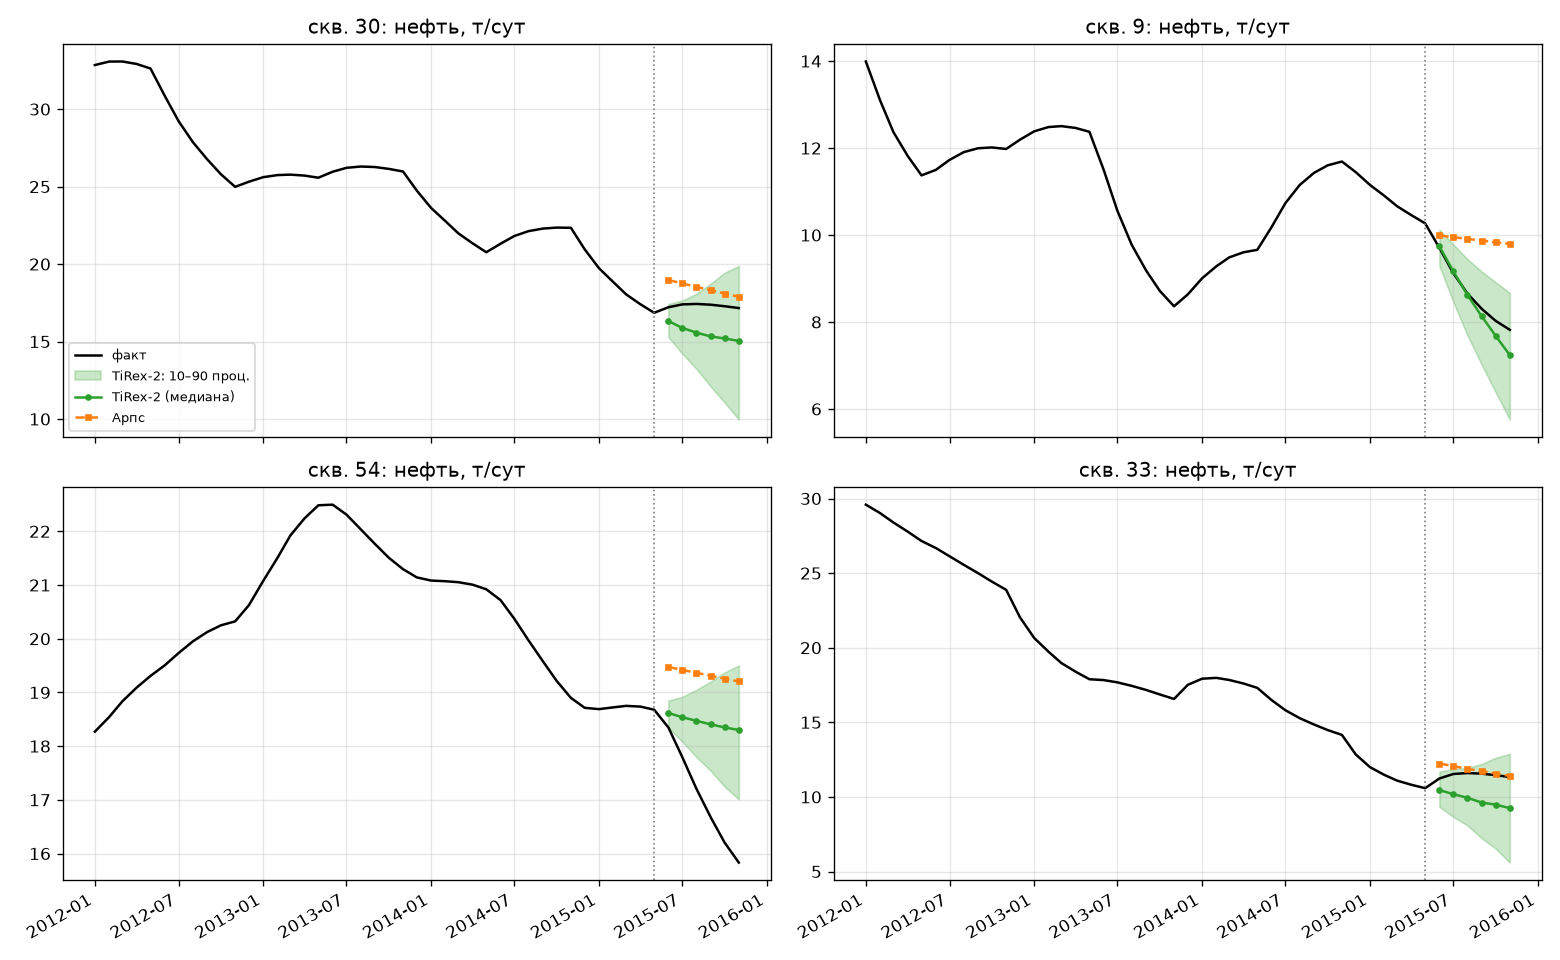
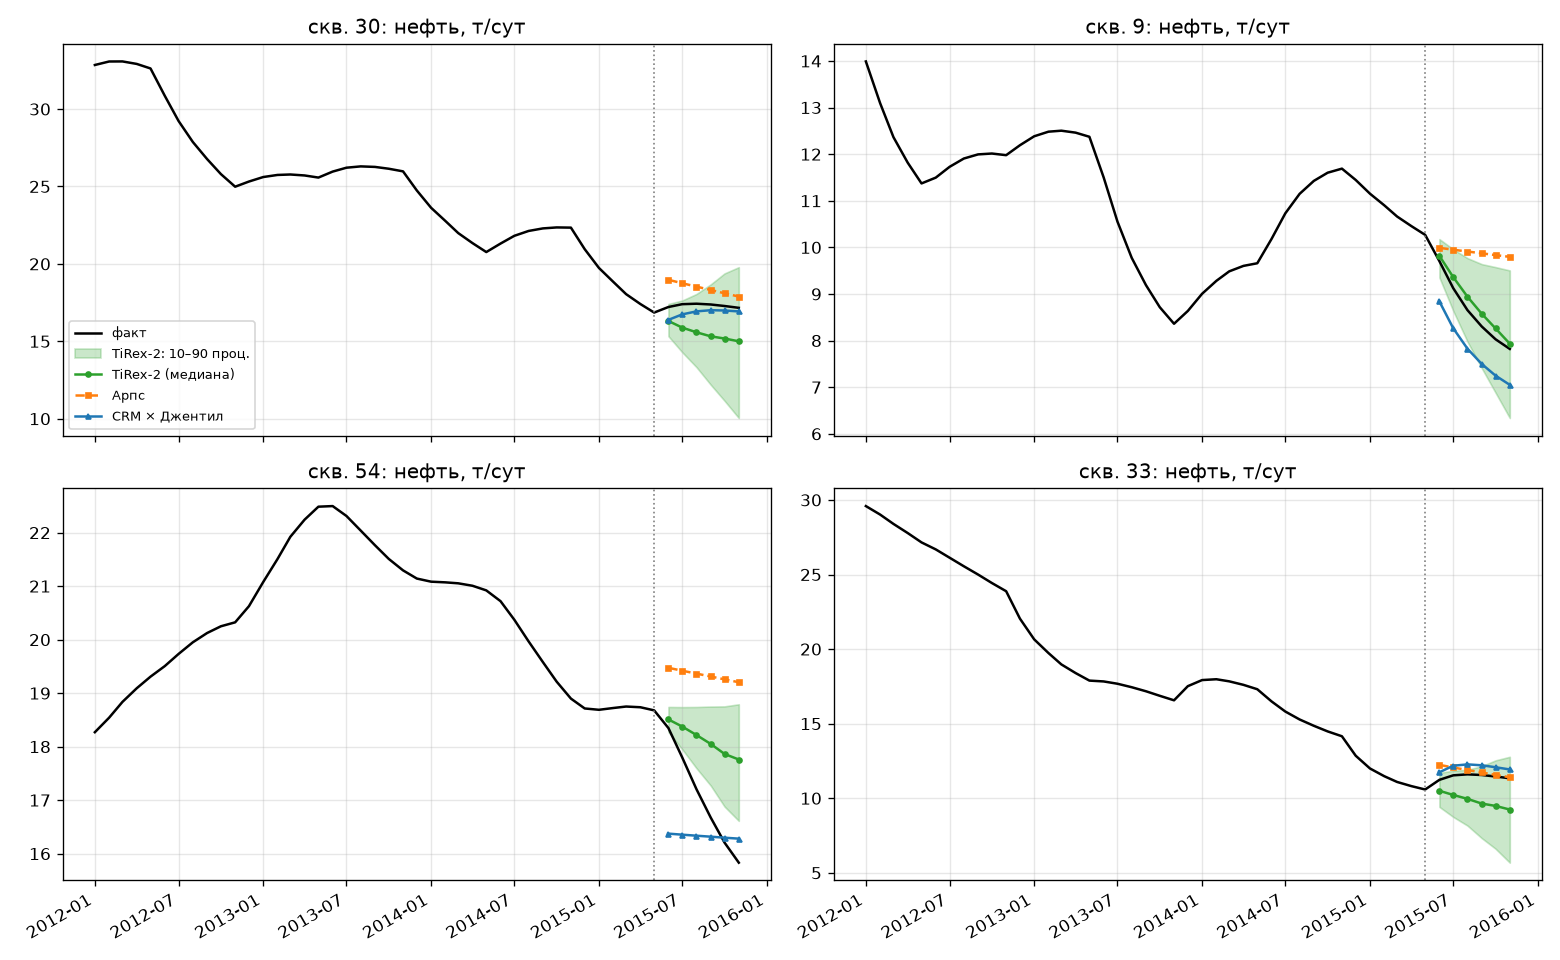
docs: этап 2 завершён — результаты в отчёте (§3.5, §4, §5, §6), журнал и статусы в roadmap, графики и сводка с a100
Жидкость: CRM 4.4% WAPE (было 7.7%); нефть: CRM×Джентил 6.4% (было 7.8%);
блоки подтверждены полевым CRM (66.7% связности внутри при 21.4% пар);
накрытие интервалов жидкости 0.59→0.73; прогноз вперёд переведён на стек.

diff --git a/docs/отчёт_прогноз_дебита_6мес.md b/docs/отчёт_прогноз_дебита_6мес.md
@@ -1,7 +1,10 @@
 # Прогноз дебита нефти и жидкости на 6 месяцев вперёд
 
-Дата: 2026-07-04. Исполнитель: агент TimesOil.
-Модели по заданию: TiRex-2 (NX-AI) и SPDM (Chen, Yiu; Гонконгский университет).
+Дата: 2026-07-04; обновлено 2026-07-07 (этап 2 — физическая обвязка).
+Исполнитель: агент TimesOil.
+Модели по заданию: TiRex-2 (NX-AI) и SPDM (Chen, Yiu; Гонконгский университет);
+этап 2 — ёмкостно-резистивная модель, фракционная модель обводнённости,
+конформная калибровка интервалов.
 
 ---
 
@@ -158,6 +161,38 @@ $$\Delta_{\Sigma} = \frac{\sum_{w,t} \hat{q}_{w,t} - \sum_{w,t} q_{w,t}}{\sum_{w
 «m» с новыми версиями библиотеки работы с таблицами, битый путь загрузки
 контрольной точки при прогнозе.
 
+### 3.5. Этап 2: физическая обвязка (2026-07-07)
+
+По итогам обзора литературы (12 статей + открытые публикации) реализованы
+четыре улучшения.
+
+**Ёмкостно-резистивная модель (CRM, библиотека pywaterflood).** Баланс
+добывающей скважины $j$:
+$$\tau_j \frac{dq_j}{dt} + q_j(t) = \sum_{i} f_{ij}\, I_i(t) - \tau_j J_j \frac{dP_{\text{заб},j}}{dt},$$
+где $f_{ij}$ — связность «нагнетательная $i$ → добывающая $j$», $\tau_j$ —
+постоянная времени. Подгонка — по блокам разломов (связи через экраны —
+структурные нули), обучение на истории до среза, прогноз при известном
+плане закачки. Дополнительно прогноз CRM подаётся в TiRex-2 как известная
+наперёд сопутствующая величина (конфигурация blocks_cov_crm).
+
+**Адресная закачка.** Вместо блочных сумм каждая добывающая получает
+$\tilde I_j(t)=\sum_i w_{ij} I_i(t)$: веса гидропроводности
+$w_{ij}\propto \bar k_{ij}/d_{ij}^{2}$ из статики (blocks_wcov) либо веса
+связности CRM (blocks_fcov).
+
+**Фракционная модель обводнённости (закон Джентила).** Водонефтяное
+отношение зрелой скважины растёт степенным законом от накопленной адресной
+закачки $W$:
+$$\mathrm{ВНО}(W)=\alpha W^{\beta}, \qquad f_o=\frac{1}{1+\mathrm{ВНО}}, \qquad
+q_{\text{нефть}} = q_{\text{жидкость}} \cdot f_o;$$
+параметры — регрессией в логарифмах по истории каждой скважины.
+
+**Конформная калибровка интервалов.** 14 срезов (2013-03…2015-05, шаг
+2 месяца); множитель горизонта $h$ — эмпирический квантиль уровня 0.8
+относительного выхода факта за половину интервала; для каждого
+контрольного среза множители подбирались по срезам с непересекающимися
+окнами (без утечки).
+
 ## 4. Результаты
 
 Сводно по трём срезам × 6 мес × 33 скважины (WAPE, меньше — лучше):
@@ -194,6 +229,54 @@ $$\Delta_{\Sigma} = \frac{\sum_{w,t} \hat{q}_{w,t} - \sum_{w,t} q_{w,t}}{\sum_{w
 
 Диаграмма — `figures/summary_wape.png`, примеры скважин — `figures/examples_oil.png`.
 
+### Результаты этапа 2 (2026-07-07)
+
+Все прогоны — на сервере a100; те же три среза × 6 месяцев × 33 скважины.
+
+**Жидкость, WAPE:**
+
+| Модель | WAPE | $\Delta_\Sigma$, % |
+|---|---|---|
+| **CRM по блокам** | **0.0438** | −1.05 |
+| TiRex-2 blocks_cov_crm (ряд CRM как сопутствующий) | 0.0480 | +0.09 |
+| TiRex-2 blocks_wcov_crm | 0.0488 | +0.21 |
+| TiRex-2 blocks_wcov (адресная закачка, гидропроводность) | 0.0631 | −0.21 |
+| TiRex-2 blocks_fcov (адресная закачка, связность CRM) | 0.0696 | −0.00 |
+| TiRex-2 blocks_cov (лучшая этапа 1) | 0.0769 | −0.06 |
+| Арпс (36 мес) | 0.1033 | −2.38 |
+
+**Нефть, WAPE:**
+
+| Модель | WAPE | $\Delta_\Sigma$, % |
+|---|---|---|
+| **CRM × Джентил** (жидкость CRM, нефть по доле) | **0.0640** | −0.20 |
+| TiRex-2 × Джентил (жидкость TiRex-2 blocks_cov_crm) | 0.0675 | +1.87 |
+| TiRex-2 blocks_cov_crm (прямой прогноз нефти) | 0.0783 | +1.00 |
+| TiRex-2 blocks_wcov | 0.0789 | +0.67 |
+| TiRex-2 blocks_cov (лучшая этапа 1) | 0.0831 | +1.05 |
+| Арпс (36 мес) | 0.0938 | +1.84 |
+
+**Проверка блоков данными.** Ёмкостно-резистивная модель всего поля без
+блоковых ограничений сосредоточила 66.7 % суммарной связности внутри
+блоков при доле внутриблочных пар 21.4 % — концентрация в 3.1 раза,
+независимое подтверждение оцифрованной разломной сети.
+
+**Калибровка интервалов.** Жидкость: накрытие 80-процентного интервала
+выросло с 0.59 до 0.73 (множители растут с горизонтом от 0.85 до 1.68 —
+собственные интервалы модели всё уже к дальним месяцам). Нефть: в среднем
+без изменений (0.74 → 0.74) — интервалы нефти уже были близки к
+калиброванным, а межсрезовая изменчивость при трёх контрольных срезах
+доминирует. Множители по всем срезам сохранены и применяются в прогнозе
+вперёд (`results/interval_scale.csv`).
+
+**Выводы этапа 2.** Ёмкостно-резистивная модель почти вдвое улучшила
+жидкость (7.7 → 4.4 %); физическая декомпозиция «жидкость × доля нефти»
+улучшила нефть на пятую часть (7.8 → 6.4 %); лучшая связка полностью
+физическая (CRM + Джентил), роль TiRex-2 — квантильные интервалы и
+устойчивость к скважинам с нетипичной динамикой. Адресная закачка
+улучшает нефть против блочных сумм, но её сигнал перекрывается рядом CRM;
+комбинация выигрыша не добавляет.
+
 ### Главные выводы
 
 1. **Лучшая конфигурация — TiRex-2 с блоками разломов и закачкой как
@@ -221,20 +304,26 @@ $$\Delta_{\Sigma} = \frac{\sum_{w,t} \hat{q}_{w,t} - \sum_{w,t} q_{w,t}}{\sum_{w
 
 ## 5. Прогноз вперёд: 2015-12…2016-05
 
-Конфигурация TiRex-2 blocks_cov, закачка — продление последнего режима.
-По полю (т/сут; в скобках 10–90-процентный интервал):
+Итоговый стек этапа 2: жидкость — ёмкостно-резистивная модель по блокам,
+нефть — жидкость × доля нефти по закону Джентила; интервалы — квантили
+TiRex-2 (blocks_cov_crm), масштабированные конформными множителями и
+перецентрированные на точечный прогноз стека. Закачка на горизонте —
+продление последнего режима. По полю (т/сут; в скобках 10–90-процентный
+интервал):
 
 | Месяц | Нефть | Жидкость |
 |---|---|---|
-| 2015-12 | 275 (261–290) | 5733 (5636–5849) |
-| 2016-01 | 271 (253–291) | 5731 (5566–5926) |
-| 2016-02 | 269 (246–293) | 5728 (5492–5994) |
-| 2016-03 | 265 (236–297) | 5731 (5435–6068) |
-| 2016-04 | 263 (227–302) | 5740 (5379–6138) |
-| 2016-05 | 261 (216–305) | 5744 (5337–6194) |
+| 2015-12 | 282 (273–292) | 5855 (5785–5936) |
+| 2016-01 | 279 (264–295) | 5858 (5711–6023) |
+| 2016-02 | 276 (255–299) | 5861 (5658–6079) |
+| 2016-03 | 274 (245–304) | 5864 (5593–6158) |
+| 2016-04 | 271 (236–308) | 5868 (5531–6218) |
+| 2016-05 | 268 (226–310) | 5871 (5463–6297) |
 
-Продолжение падения нефти ~5 % за полугодие при полке жидкости —
-согласуется с трендом 2015 года. Помесячные прогнозы по каждой скважине —
+Падение нефти ~5 % за полугодие при полке жидкости — продолжение тренда
+2015 года. Относительно этапа 1 точечный уровень выше на ~3 % (ёмкостно-
+резистивная модель учитывает отклик на сохранение режима закачки, который
+чистый ряд истории занижал). Помесячные прогнозы по каждой скважине —
 `results/forward_oil_tpd.csv`, `results/forward_liq_tpd.csv`; график —
 `figures/forward_field.png`.
 
@@ -247,12 +336,18 @@ $$\Delta_{\Sigma} = \frac{\sum_{w,t} \hat{q}_{w,t} - \sum_{w,t} q_{w,t}}{\sum_{w
 - Блоки оцифрованы с растровой карты; сама разломная сеть, вероятно,
   известна точнее в исходной модели — целесообразно запросить полигоны
   разломов в векторном виде.
-- Интервалы лучшей конфигурации недокрывают: накрытие 80-процентного
-  интервала фактически 0.70 (нефть) и 0.52 (жидкость).
-- Прогнозы нефти и жидкости строятся раздельно и формально не согласованы
-  между собой (возможно нефть > жидкость на отдельной скважине и месяце).
+- Интервалы после конформной калибровки не достигают номинала полностью:
+  накрытие ~0.73–0.74 при цели 0.80 (см. § 4, «Калибровка интервалов») —
+  остаточный зазор связан с малым числом контрольных срезов и сдвигом
+  распределения ошибок между годами.
+- Согласованность нефть ≤ жидкость обеспечена стеком этапа 2 (нефть
+  строится как доля жидкости); прямые раздельные прогнозы этапа 1 этим
+  свойством не обладали.
 
 ### 6.2. Направления развития (по итогам обзора литературы, 2026-07-07)
+
+> Состояние на 2026-07-07: пп. 1–4 выполнены (результаты — § 4
+> «Результаты этапа 2»); пп. 5–6 — план следующего этапа.
 
 Изучены 12 статей (`papers/`) и проведена веб-разведка по смежным
 направлениям. Три независимых источника — собранные статьи, открытые

diff --git a/docs/roadmap.md b/docs/roadmap.md
@@ -7,6 +7,7 @@
 | Дата | Действие | Результат | Статус |
 |------|----------|-----------|--------|
 | 2026-07-04 | Инициализация репозитория: каркас тулинга агентов (`CLAUDE.md`/`AGENTS.md` побайтно, `.serena/project.yml` python, `.gitignore`, `README.md`, `docs/roadmap.md`). MCP-инструменты глобальные (serena/tavily/fff/codegraph + плагины context7/playwright/honcho) — наследуются. codegraph обновлён 1.1.3→1.2.0. | Публичный GitHub-репозиторий создан, продублирован на a100 `/root/projects/TimesOil`. Готово к работе нового агента. | ✅ |
+| 2026-07-07 | **Этап 2: физическая обвязка прогноза (пп. 1–4 плана).** Plan: CRM → адресная закачка → калибровка интервалов → обводнённость; прогоны на a100. Act: `crm.py`+`run_crm.py` (pywaterflood, по блокам + полевой без ограничений), `allocation.py` (гидропроводность/связность), `calibrate_intervals.py` (14 срезов, множители без утечки), `fractional.py`+`run_fractional.py` (Джентил), `forecast_forward.py` переведён на стек. Verify: все прогоны на a100, сводка `collect_results.py`. | **Жидкость: CRM WAPE 4.4 %** (было 7.7 %); **нефть: CRM × Джентил 6.4 %** (было 7.8 %). Блоки подтверждены данными: 66.7 % связности полевого CRM внутри блоков (доля пар 21.4 %). Накрытие интервалов жидкости 0.59→0.73. Прогноз вперёд обновлён (нефть 282→268 т/сут). Отчёт дополнен (§ 3.5, § 4, § 5). | ✅ |
 | 2026-07-07 | **Обзор литературы и разведка направлений развития.** Plan: изучить 12 статей из `papers/` (3 параллельных читателя) + веб-разведка tavily по 6 направлениям. Act: разобраны кластеры «физика/связность», «машинное обучение», «смешанный»; найдены библиотека pywaterflood (ёмкостно-резистивные модели), методы конформной калибровки интервалов (AcMCP), фракционные модели обводнённости (Ковал/Джентил), открытый эталон UNISIM-I-M. Verify: три независимых источника (статьи, веб, собственный анализ) сошлись на одном векторе. | Утверждён план этапа 2 (см. раздел «Этап 2 — план»); направления развития зафиксированы в отчёте (§ 6). Вывод: выигрыш — в физической обвязке лидера (связность, ёмкостно-резистивные модели, калибровка), а не в новых обучаемых архитектурах. | ✅ |
 | 2026-07-04 | **Задача 1: прогноз дебита на 6 мес (TiRex-2 + SPDM).** План: изучить `raw_data` (2 Excel + карта разломов) → исследовать модели → постановка (3 среза × 6 мес, WAPE) → пайплайн (`src/timesoil`, `scripts/`) → прогоны (TiRex-2 локально на CPU, SPDM на a100 GPU 5, tmux) → отчёт. Act: оцифрованы 5 разломов с карты → 6 блоков; выявлены ловушки данных (THP=пластовое, DobG=жидкость, мусорный 2015-12, нули до пуска, перевод 15 скв. под нагнетание в 2008). SPDM: 3 дефекта репо исправлены (конфиги, freq `ME`, путь чекпоинта), 8 обучений на a100. Verify: сверка двух Excel (тождественны), бэктест 10 моделей/конфигураций. | **TiRex-2 blocks_cov лучшая: нефть WAPE 8.3 %, жидкость 7.7 %** (Арпс 9.4 %/10.3 %, SPDM 10.0 %/12.5 %). Закачка по блокам как известный план — главный фактор (жидкость 13.4→7.7 %). Прогноз вперёд 2015-12..2016-05 в `results/forward_*.csv`. Отчёт: `docs/отчёт_прогноз_дебита_6мес.md`. | ✅ |
 
@@ -16,10 +17,10 @@
 
 | № | Шаг | Суть | Статус |
 |---|-----|------|--------|
-| 1 | Ёмкостно-резистивная модель (pywaterflood) | CRMP по блокам: матрица связности $f_{ij}$ (16×33) — проверка блоков данными; физичный эталон жидкости в скользящей проверке; прогноз CRM на 6 мес как известная наперёд сопутствующая величина для TiRex-2 (рецепт Nagao & Datta-Gupta, 2026) | ⏳ |
-| 2 | Адресная закачка вместо блочных сумм | Веса гидропроводности $w_{ij}=\bar{k}_{ij}/d_{ij}^{\eta}$ из статики (STA-MGCN, 2025) и/или веса связности $f_{ij}$ из шага 1; сопутствующая величина на каждую скважину | ⏳ |
-| 3 | Конформная калибровка интервалов | Расширить скользящую проверку до ~10 срезов; погоризонтные поправочные множители квантилей по остаткам (AcMCP, Ванг и Хиндман); цель — накрытие 80 % вместо 70/52 % | ⏳ |
-| 4 | Физичное разделение нефть/жидкость | Фракционная модель обводнённости (Ковал — молодые, Джентил $f_o=1/(1+\alpha W^{\beta})$ — зрелые); нефть = жидкость × (1 − обводнённость); устраняет рассогласование раздельных прогнозов | ⏳ |
+| 1 | Ёмкостно-резистивная модель (pywaterflood) | CRMP по блокам: матрица связности $f_{ij}$ (16×33) — проверка блоков данными; физичный эталон жидкости в скользящей проверке; прогноз CRM на 6 мес как известная наперёд сопутствующая величина для TiRex-2 (рецепт Nagao & Datta-Gupta, 2026) | ✅ 4.4 % WAPE жидкость; блоки подтверждены (66.7 % связности внутри) |
+| 2 | Адресная закачка вместо блочных сумм | Веса гидропроводности $w_{ij}=\bar{k}_{ij}/d_{ij}^{\eta}$ из статики (STA-MGCN, 2025) и/или веса связности $f_{ij}$ из шага 1; сопутствующая величина на каждую скважину | ✅ нефть 7.9 % (лучше блочных сумм), но ряд CRM сильнее |
+| 3 | Конформная калибровка интервалов | Расширить скользящую проверку до ~10 срезов; погоризонтные поправочные множители квантилей по остаткам (AcMCP, Ванг и Хиндман); цель — накрытие 80 % вместо 70/52 % | ✅ жидкость 0.59→0.73; нефть без изменений (0.74) |
+| 4 | Физичное разделение нефть/жидкость | Фракционная модель обводнённости (Ковал — молодые, Джентил $f_o=1/(1+\alpha W^{\beta})$ — зрелые); нефть = жидкость × (1 − обводнённость); устраняет рассогласование раздельных прогнозов | ✅ нефть 6.4 % WAPE (CRM × Джентил) |
 | 5 | Второе месторождение | Перенос контура на открытый эталон UNISIM-I-M (14 добывающих + 11 нагнетательных, 7 лет) | 📋 |
 | 6 | Оптимизация распределения закачки | Сценарии «перекинуть закачку между блоками» поверх прогнозной модели; максимум нефти при фиксированной суммарной закачке | 📋 |
 
@@ -31,7 +32,8 @@
   TiRex-2 (zero-shot, extra `tirex`, работает на CPU); SPDM/ManiMamba
   (обучение на a100, отдельное окружение `external/spdm/.venv`, py3.12+mamba-ssm).
 - **Структура и точки входа:** `src/timesoil/` (data/wells/metrics/baselines/
-  backtest/tirex_runner) + `scripts/` (`run_baselines.py`, `run_tirex.py`,
-  `prepare_spdm_data.py` → `spdm_run.sh` → `eval_spdm.py`,
-  `forecast_forward.py`, `collect_results.py`, `make_figs.py`).
+  backtest/tirex_runner + этап 2: crm/allocation/fractional) + `scripts/`
+  (`run_baselines.py`, `run_tirex.py`, `run_crm.py`, `run_fractional.py`,
+  `calibrate_intervals.py`, `prepare_spdm_data.py` → `spdm_run.sh` →
+  `eval_spdm.py`, `forecast_forward.py`, `collect_results.py`, `make_figs.py`).
   Данные `raw_data/` вне git (передавать `scp`), результаты `results/` вне git.

diff --git a/AGENTS.md b/AGENTS.md
@@ -61,17 +61,22 @@ assess risk (`codegraph_impact`) → read & edit (serena) → verify.
 разломами на 6 блоков (оцифровано в `src/timesoil/wells.py`).
 
 **Стек**: Python 3.13 + uv; `pandas/numpy/scipy/matplotlib`; модели —
-TiRex-2 (NX-AI, zero-shot, extra `tirex`) и SPDM/ManiMamba (обучение на a100,
-отдельное окружение `external/spdm/.venv`, python 3.12 + mamba-ssm cu12).
+TiRex-2 (NX-AI, zero-shot, extra `tirex`), SPDM/ManiMamba (обучение на a100,
+отдельное окружение `external/spdm/.venv`, python 3.12 + mamba-ssm cu12),
+физика — CRM (`pywaterflood`) и фракционная модель Джентила.
 
 **Структура и точки входа**:
 - `src/timesoil/` — данные (`data.py` — все причуды исходников задокументированы
   в докстринге), фонд/блоки (`wells.py`), метрики, бейслайны, бэктест,
-  раннер TiRex-2;
-- `scripts/run_baselines.py`, `run_tirex.py` — бэктест (3 среза x 6 мес);
+  раннер TiRex-2; этап 2: `crm.py` (ёмкостно-резистивная модель),
+  `allocation.py` (адресная закачка), `fractional.py` (обводнённость);
+- `scripts/run_baselines.py`, `run_tirex.py`, `run_crm.py`,
+  `run_fractional.py` — бэктест (3 среза x 6 мес);
+- `scripts/calibrate_intervals.py` — конформная калибровка квантилей;
 - `scripts/prepare_spdm_data.py` -> `spdm_run.sh` (на a100, tmux) ->
   `eval_spdm.py` — контур SPDM;
-- `scripts/forecast_forward.py` — итоговый прогноз 2015-12..2016-05;
+- `scripts/forecast_forward.py` — итоговый прогноз 2015-12..2016-05
+  (стек: CRM-жидкость, Джентил-нефть, интервалы TiRex-2 с множителями);
 - `scripts/collect_results.py`, `make_figs.py` — сводка и графики;
 - `results/` (вне git), отчёт — `docs/`.
 

diff --git a/CLAUDE.md b/CLAUDE.md
@@ -61,17 +61,22 @@ assess risk (`codegraph_impact`) → read & edit (serena) → verify.
 разломами на 6 блоков (оцифровано в `src/timesoil/wells.py`).
 
 **Стек**: Python 3.13 + uv; `pandas/numpy/scipy/matplotlib`; модели —
-TiRex-2 (NX-AI, zero-shot, extra `tirex`) и SPDM/ManiMamba (обучение на a100,
-отдельное окружение `external/spdm/.venv`, python 3.12 + mamba-ssm cu12).
+TiRex-2 (NX-AI, zero-shot, extra `tirex`), SPDM/ManiMamba (обучение на a100,
+отдельное окружение `external/spdm/.venv`, python 3.12 + mamba-ssm cu12),
+физика — CRM (`pywaterflood`) и фракционная модель Джентила.
 
 **Структура и точки входа**:
 - `src/timesoil/` — данные (`data.py` — все причуды исходников задокументированы
   в докстринге), фонд/блоки (`wells.py`), метрики, бейслайны, бэктест,
-  раннер TiRex-2;
-- `scripts/run_baselines.py`, `run_tirex.py` — бэктест (3 среза x 6 мес);
+  раннер TiRex-2; этап 2: `crm.py` (ёмкостно-резистивная модель),
+  `allocation.py` (адресная закачка), `fractional.py` (обводнённость);
+- `scripts/run_baselines.py`, `run_tirex.py`, `run_crm.py`,
+  `run_fractional.py` — бэктест (3 среза x 6 мес);
+- `scripts/calibrate_intervals.py` — конформная калибровка квантилей;
 - `scripts/prepare_spdm_data.py` -> `spdm_run.sh` (на a100, tmux) ->
   `eval_spdm.py` — контур SPDM;
-- `scripts/forecast_forward.py` — итоговый прогноз 2015-12..2016-05;
+- `scripts/forecast_forward.py` — итоговый прогноз 2015-12..2016-05
+  (стек: CRM-жидкость, Джентил-нефть, интервалы TiRex-2 с множителями);
 - `scripts/collect_results.py`, `make_figs.py` — сводка и графики;
 - `results/` (вне git), отчёт — `docs/`.
 